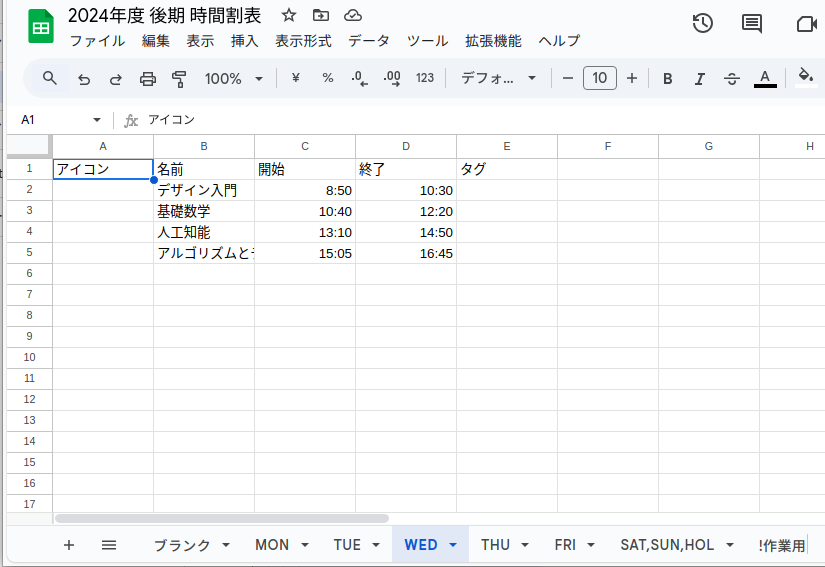
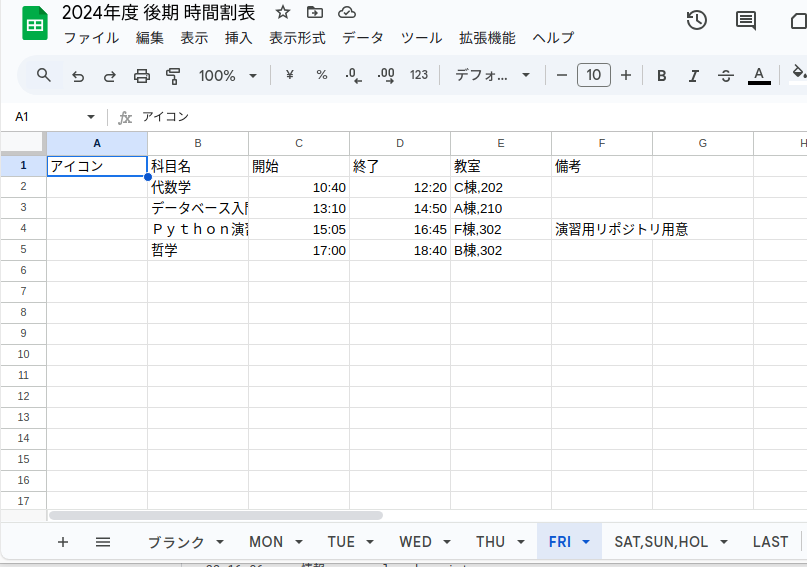
docs: Update README.md

Changed region(s): [[0.0, 0.0, 1.0, 1.0], [0.3408, 0.0899, 1.0, 0.1799], [0.8364, 0.0, 1.0, 0.06]]

diff --git a/README.md b/README.md
@@ -427,7 +427,15 @@ await NextNanika.run(client, {
 
 ### 時間割に利用する
 
-以下のように、スプレッドシートで終了時間を入力し、`NextNanika.run()` でのプロパティ名指定を変更することで時間割風なレコードを作成できます。
+以下のプロパテパティを持つデータベースを作成します。
+
+- `科目名` : タイトル
+- `授業時間` : 日付
+- `期間` : マルチセレクト
+- `教室` : マルチセレクト
+- `備考` : マルチセレクト
+
+プレッドシートとスクリプトを作成することで、時間割を作成できます。なお、`教室` と `備考` は `,` 区切りで複数の値を入力できます。
 
 ![Google スプレッドシートで曜日別シートに時間割の設定を入力していいるスクリーンショット](images/sheet_class.png)
 
@@ -461,6 +469,63 @@ async function start() {
     skipCleanup: true
   })
 }
+
+function sheetsToTimeTable_(spreadSheet) {
+  const iconCol = 0
+  const nameCol = 1
+  const startHHMMCol = 2
+  const endHHMMCol = 3
+  const tagsCol = 4
+
+  const sheets = spreadSheet
+    .getSheets()
+    .filter((s) => !s.getName().startsWith('!'))
+  const tt = []
+
+  for (const s of sheets) {
+    const t = {
+      dayKind: [...s.getName().split(',')],
+      recs: []
+    }
+
+    const range = s.getDataRange()
+    const values = range.getDisplayValues()
+    for (const row of values.slice(1)) {
+      const rec = {}
+      if (row[iconCol]) {
+        rec.icon = row[iconCol]
+      }
+      if (row[nameCol]) {
+        rec.name = row[nameCol]
+      }
+      const startHHMM = row[startHHMMCol].split(':')
+      rec.start = {
+        hh: startHHMM[0],
+        mm: startHHMM[1]
+      }
+      if (row[endHHMMCol]) {
+        const endHHMM = row[endHHMMCol].split(':')
+        rec.end = {
+          hh: endHHMM[0],
+          mm: endHHMM[1]
+        }
+      }
+      rec.tags = []
+      for (const tt of row.slice(tagsCol)) {
+        let t = []
+        if (typeof tt === 'string' && tt !== '') {
+          t = tt.split(',').filter((c) => typeof c === 'string' && c != '')
+        }
+        rec.tags.push(t)
+      }
+
+      t.recs.push(rec)
+    }
+    //console.log(JSON.stringify(t, null, 2))
+    tt.push(t)
+  }
+  return tt
+}
 ```
 
 Notion カレンダーで表示すると以下のようになります。
@@ -492,7 +557,7 @@ await NextNanika.run(client, {
   dayKindGetter: (baseTime) => {
     const kind = dayKindGetter(baseTime)
     if (kind !== 'SAT' && kind !== 'SUN' && kind !== 'HOL') {
-      // 月の最終日なら 'LAST' を返す
+      // 月の最終日が平日なら 'LAST' を返す
       const nextMonth = new Date(
         baseTime.getFullYear(),
         baseTime.getMonth() + 1,
